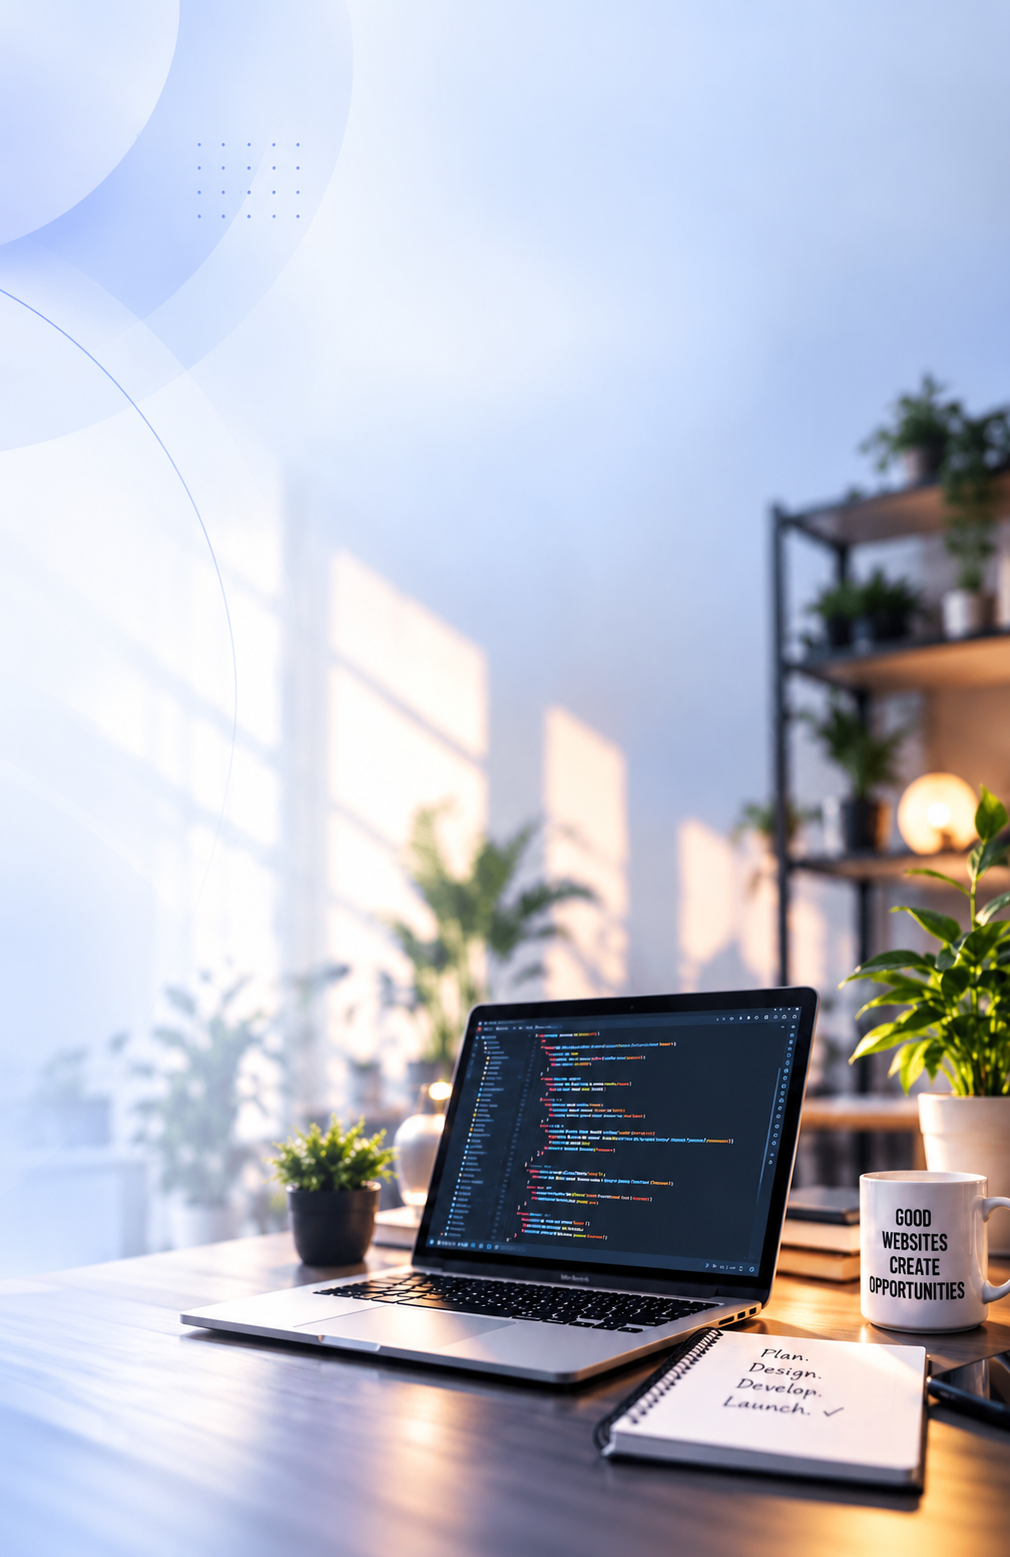
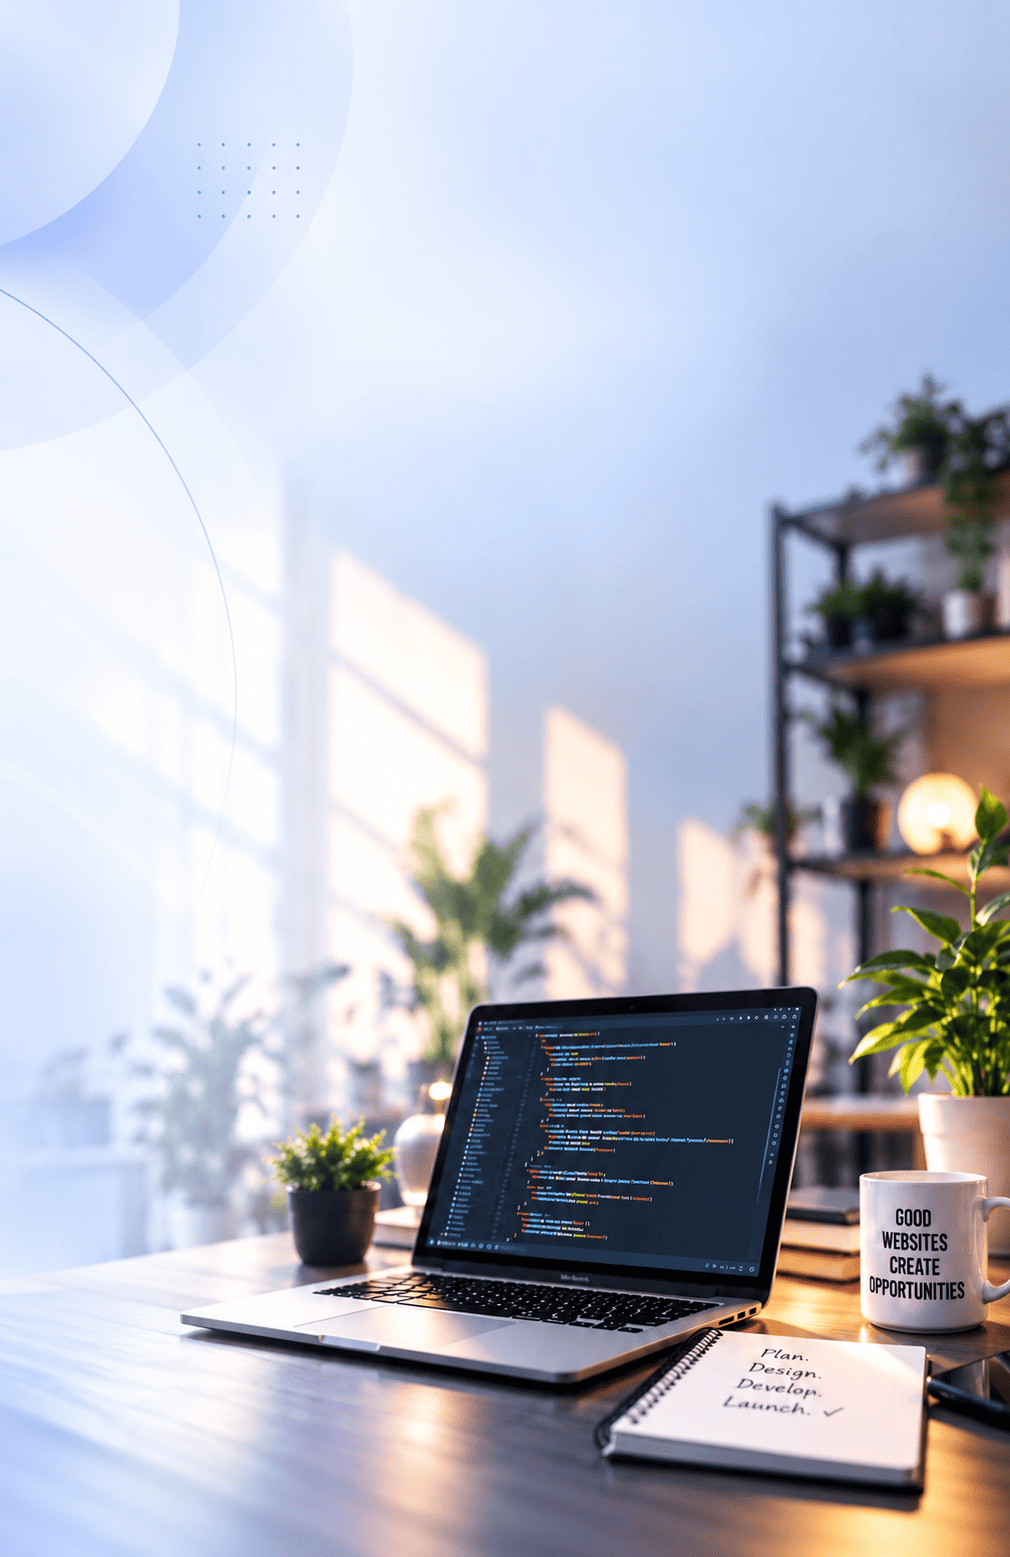
Add files via upload

diff --git a/style.css b/style.css
@@ -1,5 +1,5 @@
 :root{
-  --ink:#14181F; --muted:#5B6472; --paper:#FFFFFF; --alt:#F3F5F8; --line:#E1E5EB;
+  --ink:#14181F; --muted:#14181F; --paper:#FFFFFF; --alt:#F3F5F8; --line:#E1E5EB;
   --accent:#2F4BFF; --green:#1F9D6B;
   --head:'Bricolage Grotesque',system-ui,sans-serif; --body:'Inter',system-ui,sans-serif;
 }
@@ -31,7 +31,26 @@ img{max-width:100%}
 /* nav */
 .site-nav{position:sticky;top:0;z-index:50;background:rgba(255,255,255,.94);backdrop-filter:blur(8px);border-bottom:1px solid var(--line)}
 .navbar{padding:.7rem 0}
-.navbar-brand{font-family:var(--head);font-weight:700;font-size:1.15rem;letter-spacing:-.01em}
+.navbar-brand {
+  font-family: var(--head);
+  font-weight: 700;
+  font-size: 1.15rem;
+  letter-spacing: -.01em;
+  display: inline-flex;
+  align-items: center;
+  gap: 0.65rem;
+}
+
+.nav-dp {
+  width: 36px;
+  height: 36px;
+  border-radius: 50%;
+  object-fit: cover;
+  object-position: center;
+  border: 2px solid var(--accent);
+  box-shadow: 0 2px 8px rgba(47, 75, 255, 0.15);
+  flex-shrink: 0;
+}
 .nav-link{font-size:.95rem;font-weight:500;color:var(--muted)!important;padding:.5rem .8rem!important;position:relative}
 .nav-link:hover,.nav-link.active{color:var(--ink)!important}
 .nav-link.active::after{content:"";position:absolute;left:.8rem;right:.8rem;bottom:.15rem;height:2px;background:var(--accent);border-radius:2px; transition: all 0.3s ease;}
@@ -148,6 +167,13 @@ img{max-width:100%}
 }
 
 /* projects */
+#work {
+  background-image: url('assets/works_bg.png');
+  background-size: 100% 100%; /* Fits the full image to the exact width and height without cropping */
+  background-position: center;
+  background-repeat: no-repeat;
+}
+
 .project{background:#fff;border:1px solid var(--line);border-radius:22px;padding:clamp(1rem,3vw,2.5rem);margin-bottom:2rem; transition: transform 0.4s cubic-bezier(0.165, 0.84, 0.44, 1), box-shadow 0.4s ease;}
 .project:hover { transform: translateY(-4px); box-shadow: 0 20px 40px rgba(20, 24, 31, 0.05); }
 .project h3{font-size:clamp(1.5rem,3vw,2.1rem);font-weight:700;margin:.8rem 0 .4rem}
@@ -172,11 +198,12 @@ img{max-width:100%}
    HELP SECTION
    ========================================================= */
 .help-section {
-  background: 
-    radial-gradient(circle at 0% 0%, rgba(47, 82, 255, 0.04), transparent 40%),
-    radial-gradient(circle at 100% 100%, rgba(47, 82, 255, 0.04), transparent 40%),
-    #fafbff;
-  padding: clamp(2.5rem, 3vw, 2.5rem) 0; /* Shrinks PC gap, leaves mobile untouched */
+  background-color: #fafbff;
+  background-image: url('assets/servicesandwhy_bg.png');
+  background-size: 100% 100%;
+  background-position: center;
+  background-repeat: no-repeat;
+  padding: clamp(2.5rem, 3vw, 2.5rem) 0;
 }
 
 .help-header {
@@ -274,11 +301,12 @@ h2#help-h {
    WHY CHOOSE ME SECTION
    ========================================================= */
 .why-section {
-  background: 
-    radial-gradient(circle at 100% 0%, rgba(47, 82, 255, 0.04), transparent 40%),
-    radial-gradient(circle at 0% 100%, rgba(47, 82, 255, 0.04), transparent 40%),
-    #f8f9fc; 
-  padding: clamp(2.5rem, 3vw, 2.5rem) 0; /* Shrinks PC gap, leaves mobile untouched */
+  background-color: #f8f9fc;
+  background-image: url('assets/servicesandwhy_bg.png');
+  background-size: 100% 100%;
+  background-position: center;
+  background-repeat: no-repeat;
+  padding: clamp(2.5rem, 3vw, 2.5rem) 0;
 }
 
 .why-header {
@@ -381,6 +409,9 @@ h2#help-h {
   position: relative;
 }
 
+.cta .lead-text {
+  color: #ffffff;
+}
 .contact-line {
   margin: 2.75rem 0 0; 
   color: #AEB7C6;
@@ -405,11 +436,18 @@ h2#help-h {
 /* =========================================================
    ABOUT SECTION — PROFILE DESIGN
    ========================================================= */
+/* =========================================================
+   ABOUT SECTION — PROFILE DESIGN
+   ========================================================= */
 .about-section {
   position: relative;
   overflow: hidden;
   padding: clamp(2.5rem, 5vw, 4.5rem) 0;
-  background: #ffffff;
+  background-color: #ffffff;
+  background-image: url('assets/about_bg.png');
+  background-size: 100% 100%; /* Stretches responsively to fit exact width & height with zero cutoff */
+  background-position: center;
+  background-repeat: no-repeat;
 }
 
 .about-section::before {
@@ -617,8 +655,47 @@ h2#help-h {
 }
 
 .about-content p {
-  font-size: 1.05rem;
+  font-size: 1.02rem;
   color: var(--muted);
+  margin-bottom: 1.15rem;
+}
+
+/* Big, bold comic/editorial style opening hook */
+.about-content .about-hook {
+  font-family: var(--head);
+  font-size: clamp(1.85rem, 3.4vw, 2.5rem);
+  font-weight: 700;
+  color: var(--ink);
+  line-height: 1.15;
+  letter-spacing: -0.03em;
+  margin-bottom: 1.35rem;
+}
+
+.about-content .about-hook span {
+  color: var(--accent);
+  position: relative;
+  display: inline-block;
+  z-index: 1;
+}
+
+/* Slanted graphic-style highlight bar behind "purpose," */
+.about-content .about-hook span::after {
+  content: "";
+  position: absolute;
+  left: -4px;
+  right: -4px;
+  bottom: 4px;
+  height: 10px;
+  background: rgba(47, 75, 255, 0.16);
+  transform: skewX(-12deg);
+  z-index: -1;
+  border-radius: 3px;
+}
+
+/* Emphasize the final closing line */
+.about-content .about-closing {
+  font-weight: 600;
+  color: var(--ink);
   margin-bottom: 1.5rem;
 }
 
@@ -702,6 +779,13 @@ h2#help-h {
    MOBILE & ALL-DEVICE OPTIMIZATIONS (GLOBAL)
    ========================================================= */
 @media (max-width: 767.98px) {
+
+  #work {
+    background-size: contain; /* Keeps original image proportions without cutting anything off */
+    background-position: top center;
+    background-repeat: repeat-y; /* Repeats smoothly down the tall mobile section */
+  }
+  
   .hero {
     padding: 3rem 0 0.75rem; /* Reduced bottom padding so text sits at the very edge */
     background-image: url('assets/mob_banner.png');
@@ -789,9 +873,11 @@ h2#help-h {
     font-size: clamp(0.5rem, 2.2vw, 0.85rem); /* Dynamically shrinks font so it fits on narrow phones */
   }
 /* KEEP PREVIOUS MOBILE FIXES BELOW */
-  .services-section {
-    background-size: cover; 
-    background-position: top center;
+.services-section,
+  #work,
+  .about-section {
+    background-size: 100% 100%;
+    background-position: center;
   }
   /* Center the Services heading on mobile to match other sections */
   .services-section > .container > .rv:first-child {

diff --git a/index.html b/index.html
@@ -22,7 +22,10 @@
 <header class="site-nav">
   <nav class="navbar navbar-expand-md" aria-label="Main navigation">
     <div class="container">
-      <a class="navbar-brand" href="#home">Able Gerard Saji</a>
+      <a class="navbar-brand" href="#home">
+        <img src="assets/profile.jpg" alt="Able Gerard Saji" class="nav-dp">
+        <span>Able Gerard Saji</span>
+      </a>
       <button class="navbar-toggler" type="button" data-bs-toggle="collapse" data-bs-target="#menu" aria-controls="menu" aria-expanded="false" aria-label="Toggle navigation"><i class="bi bi-list"></i></button>
       <div class="collapse navbar-collapse" id="menu">
         <ul class="navbar-nav ms-auto align-items-md-center gap-md-1">
@@ -278,10 +281,17 @@
 
       <!-- RIGHT: CONTENT (Slides in from right) -->
       <div class="about-content rv rv-right" style="--delay: 0.2s;">
-        <p>I'm a Computer Science graduate and Full Stack Web Developer who enjoys turning ideas into clean, practical digital experiences. My experience comes from working on real-world websites, including the DiST institutional website, which I'm developing page-by-page, and the SafeTech Electricals website, which I built for a small business.</p>
-        
-        <p>These projects have taught me to look beyond just writing code — to understand the people using a website, the businesses behind it, and what makes a digital experience genuinely useful. I enjoy learning, experimenting with new tools, and finding simple solutions to real problems.</p>
+        <p class="about-hook">I build with <span>purpose,</span> not just code.</p>
 
+        <p>As a Computer Science graduate and Full Stack Web Developer, I believe a good digital presence should do more than look impressive — it should make a business easier to understand, easier to trust and easier to choose.</p>
+        
+        <p>Every project begins with an idea. My role is to shape that idea into a digital experience that feels clear, purposeful and effortless to use. I think beyond pages and features — considering the people who will visit, the story a business needs to tell and the actions it wants them to take.</p>
+
+        <p>I bring together clean development, thoughtful design and practical problem-solving to create websites and digital solutions that feel professional without becoming complicated. From the first idea to the final detail, I value clear communication, careful execution and taking responsibility for the work I deliver.</p>
+
+        <p>Technology is only part of the process. I use modern tools, including AI, to explore ideas, solve problems and work more efficiently — while keeping the thinking, implementation and quality firmly in my hands.</p>
+
+        <p class="about-closing">Because the best digital work doesn't simply fill a screen. It earns attention, builds confidence and turns interest into action.</p>
         <div class="ai-card">
           <div class="ai-title">
             <i class="bi bi-stars ai-symbol"></i>
@@ -295,18 +305,7 @@
   </div>
 </section>
 
-<section class="section section-alt" aria-labelledby="price-h">
-  <div class="container">
-    <div class="rv"><h2 id="price-h">Typical project starting points</h2><p class="section-sub">Starting prices only, not fixed packages.</p></div>
-    <div class="row g-4">
-      <div class="col-sm-6 col-lg-3 rv" style="--delay: 0s;"><div class="price"><h3>Landing Pages</h3><p class="amt"><small>From</small> &#8377;1,500+</p></div></div>
-      <div class="col-sm-6 col-lg-3 rv" style="--delay: 0.1s;"><div class="price"><h3>Business Websites</h3><p class="amt"><small>From</small> &#8377;5,000+</p></div></div>
-      <div class="col-sm-6 col-lg-3 rv" style="--delay: 0.2s;"><div class="price"><h3>Website Maintenance</h3><p class="amt"><small>From</small> &#8377;3,000<span>/month</span></p></div></div>
-      <div class="col-sm-6 col-lg-3 rv" style="--delay: 0.3s;"><div class="price"><h3>Custom Digital Solutions</h3><p class="amt amt-text">Let's discuss</p></div></div>
-    </div>
-    <p class="price-note rv" style="--delay: 0.4s;">Final pricing depends on scope, pages, features and requirements.</p>
-  </div>
-</section>
+
 
 <section id="contact" class="cta">
   <div class="container">
